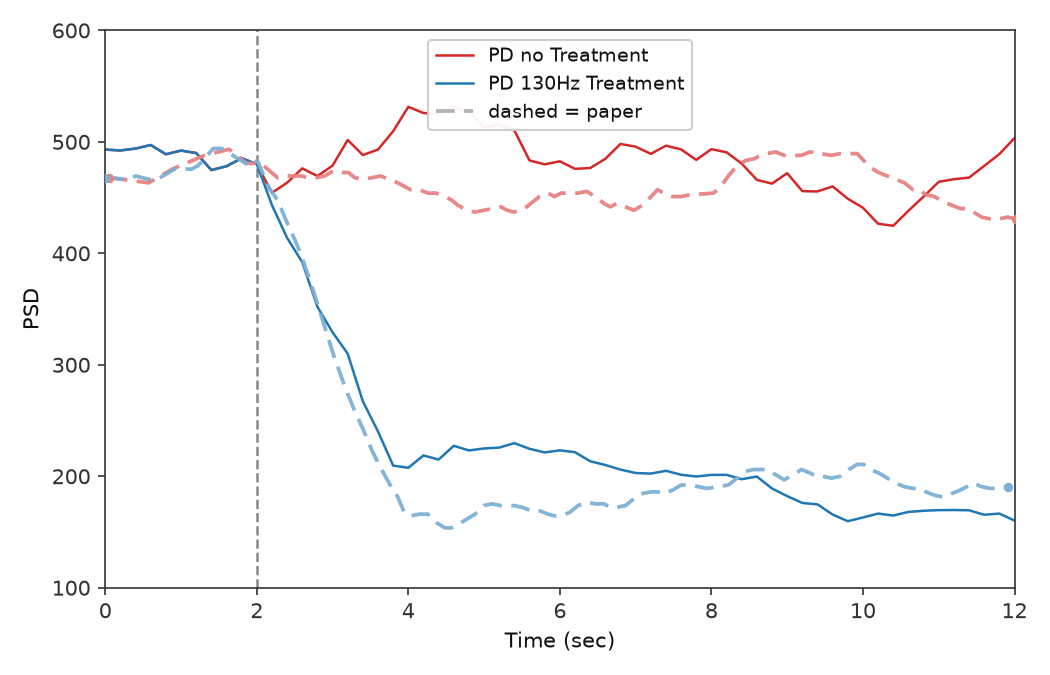
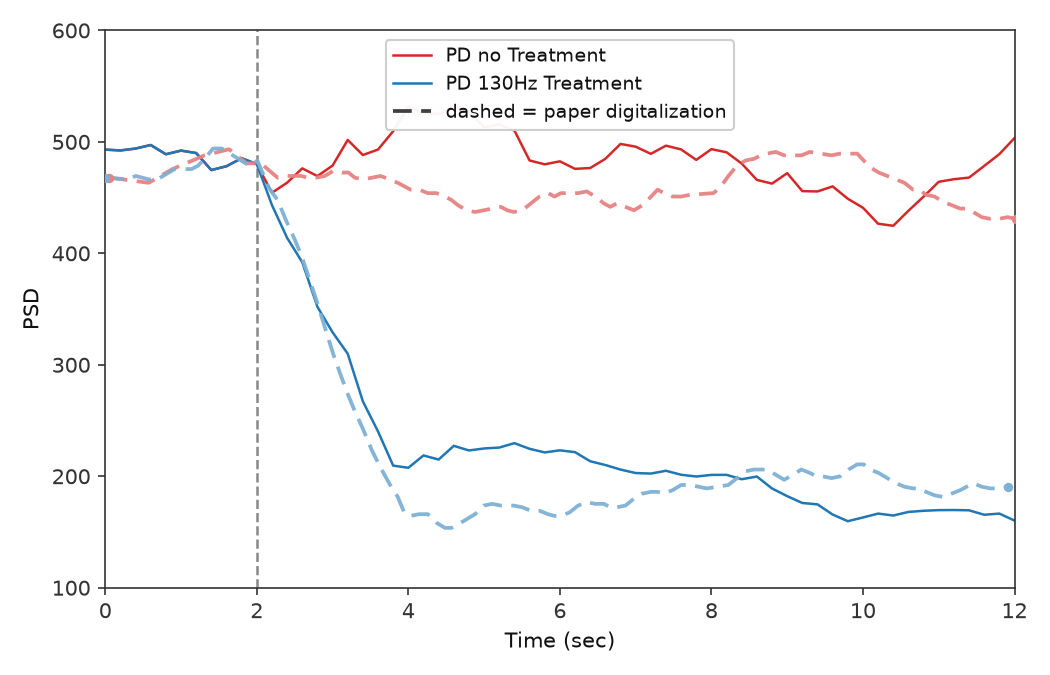
Use black dashed handle for Mehregan paper-legend key.
Label reads \"dashed = paper digitalization\"; the sample stroke is black so the key stays clear even though plot overlays keep series hues.

Changed region(s): [[0.3657, 0.0622, 0.701, 0.2178]]

diff --git a/scripts/figures/papers/paper_overlay.py b/scripts/figures/papers/paper_overlay.py
@@ -73,8 +73,8 @@ PAPER_ZORDER = 50
 PAPER_RAW_ZORDER = 49
 # Single legend row for Mehregan (and optional callers): traces stay per-hue,
 # but the table only explains that dashed lightened lines are paper digitization.
-PAPER_CONDENSED_LEGEND_LABEL = "dashed = paper"
-PAPER_CONDENSED_LEGEND_COLOR = "#9a9a9a"
+PAPER_CONDENSED_LEGEND_LABEL = "dashed = paper digitalization"
+PAPER_CONDENSED_LEGEND_COLOR = "#000000"
 
 PAPER_SMOOTH_STYLE: dict[str, Any] = {
     "color": "#000000",

diff --git a/figures/mehregan/replications.md b/figures/mehregan/replications.md
@@ -118,7 +118,7 @@ Windowed Error Index (EI, Eq. 2) over **12 s** with **So-style SMC pulses into T
 
 ### Replication
 
-![Replication Fig 2b](images/2b/error_index_v6.png)
+![Replication Fig 2b](images/2b/error_index_v7.png)
 
 <!-- caption-2b:start -->
 **Caption:** 14 s sim (2 s pre-roll), plot = sim − 2 s, 0.2 s trailing / 2 s EI window (end sim 14 s), SMC BoC inv-gamma Iappth, backend python, seed 0, v5 (2026-08-09)
@@ -222,11 +222,11 @@ Episode **total reward** and **episode-mean PSD(x10³)** during the same **45 Hz
 
 **Reward vs episode**
 
-![Replication Fig 4b reward](images/4b/training_reward_v21.png)
+![Replication Fig 4b reward](images/4b/training_reward_v22.png)
 
 **Episode-mean PSD vs episode**
 
-![Replication Fig 4b PSD](images/4b/training_psd_v21.png)
+![Replication Fig 4b PSD](images/4b/training_psd_v22.png)
 
 <!-- caption-4b:start -->
 **Caption:** 9 episodes, 45 Hz fixed_mean_pattern (Fig 4a paired run), seed 0, source series_v4.json, v17, reward ep0=-29.1 ep8=16.1, rise_ep=4, psd 0.437→0.292, gate pass (2026-08-09)
@@ -282,7 +282,7 @@ Dashed vertical at **2 s** (stimulation onset). Paper claims: trained stimulatio
 
 ### Replication
 
-![Replication Fig 5a](images/5a/efficacy_45hz_v9.png)
+![Replication Fig 5a](images/5a/efficacy_45hz_v10.png)
 
 <!-- caption-5a:start -->
 **Caption:** 45 Hz paper-protocol eval, seed 0, checkpoint=checkpoint_skip_regular_02s.pt, skip_regular, 0.2s trailing, v7, trained_mean=395, no_stim_mean=498, periodic_mean=327, trained>periodic, gates pass (2026-08-09)
@@ -344,7 +344,7 @@ Key paper claim: **periodic 30 Hz elevates** beta (stimulation rate inside the b
 
 ### Replication
 
-![Replication Fig 5b](images/5b/efficacy_30hz_v10.png)
+![Replication Fig 5b](images/5b/efficacy_30hz_v11.png)
 
 <!-- caption-5b:start -->
 **Caption:** 30 Hz paper-protocol eval, seed 0, checkpoint=checkpoint.pt, 0.2s trailing, v9, trained_mean=367, no_stim_mean=488, periodic_mean=638, trained<both, gates pass (2026-08-09)
@@ -390,7 +390,7 @@ Quantization comparison on the **45 Hz** trained policy (§IV.A.3): step-functio
 1. **Fully trained** (fp32) (green)
 2. **PTQ, int8** (blue)
 3. **PTQ, fp16** (purple)
-4. **QAT** (dashed orange)
+4. **QAT** (solid orange)
 
 Paper claim: **PTQ** (fp16 and int8) tracks full-precision beta suppression after onset; **QAT** (10 episodes) **fails** to reduce beta and stays near the pre-stim level.
 
@@ -400,7 +400,7 @@ Paper claim: **PTQ** (fp16 and int8) tracks full-precision beta suppression afte
 
 ### Replication
 
-![Replication Fig 6a](images/6a/ptq_qat_45hz_v45.png)
+![Replication Fig 6a](images/6a/ptq_qat_45hz_v46.png)
 
 <!-- caption-6a:start -->
 **Caption:** 45 Hz paper-protocol eval, seed 0, fp32_post=336, qat_post=525, PTQ tracks fp32, QAT elevated, 2026-08-09
@@ -474,7 +474,7 @@ Same quantization panel layout as Fig 6a for the **30 Hz** trained model (§IV.A
 
 ### Replication
 
-![Replication Fig 6b](images/6b/ptq_qat_30hz_v25.png)
+![Replication Fig 6b](images/6b/ptq_qat_30hz_v26.png)
 
 <!-- caption-6b:start -->
 **Caption:** 30 Hz paper-protocol eval, seed 0, fp32_post=367, qat_post=499, PTQ tracks fp32, QAT elevated, 2026-08-09
